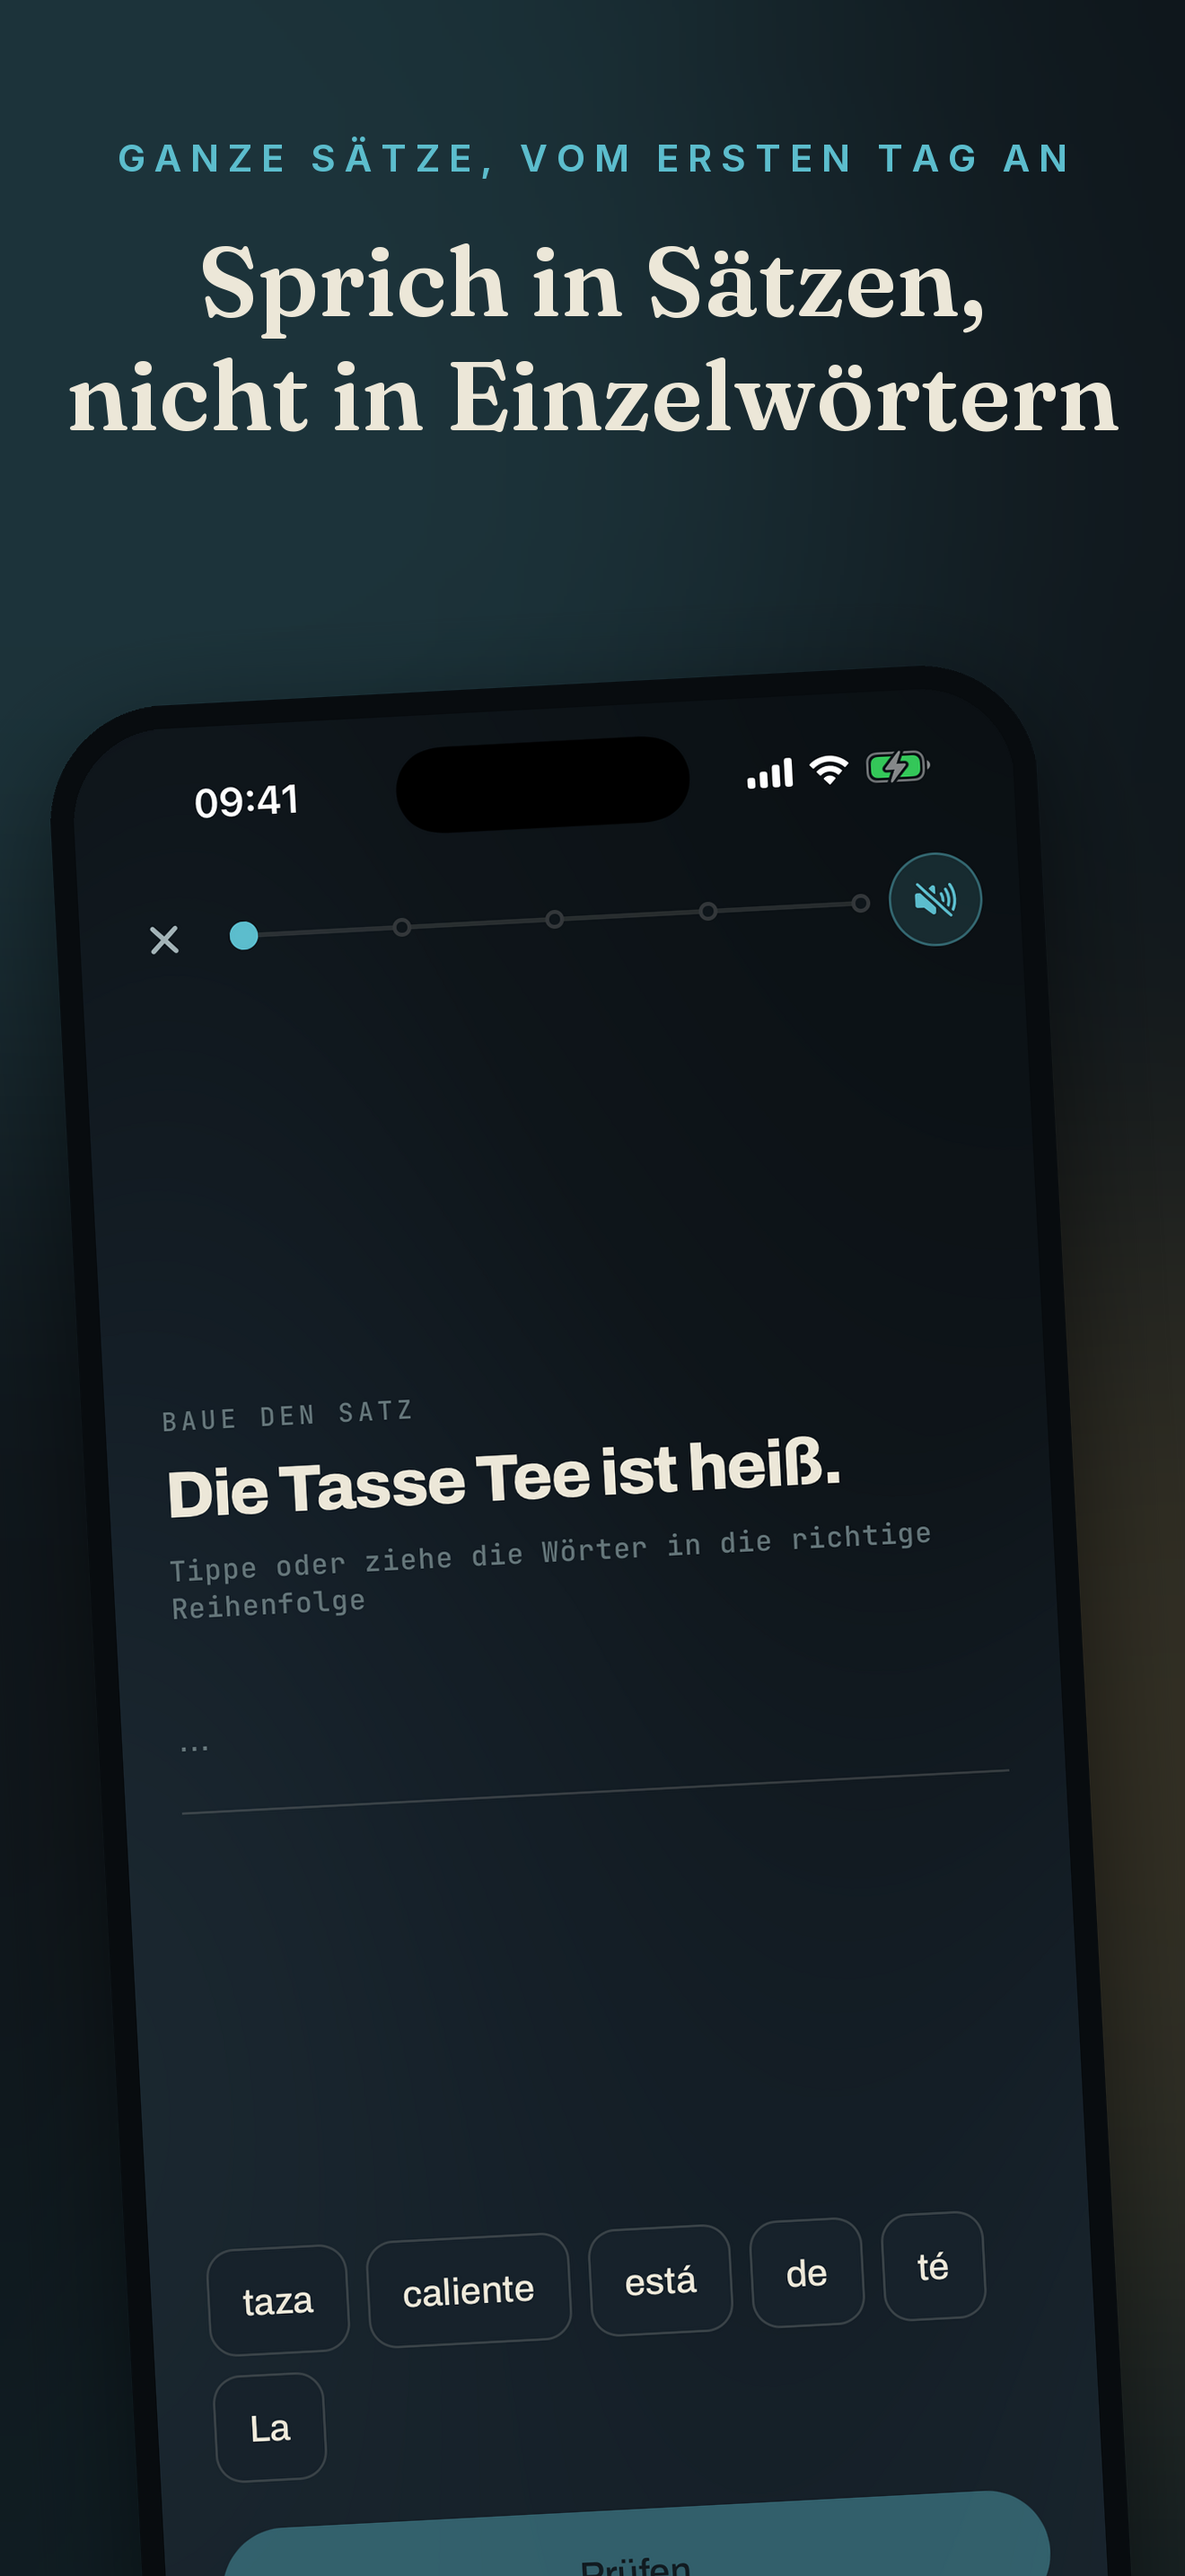
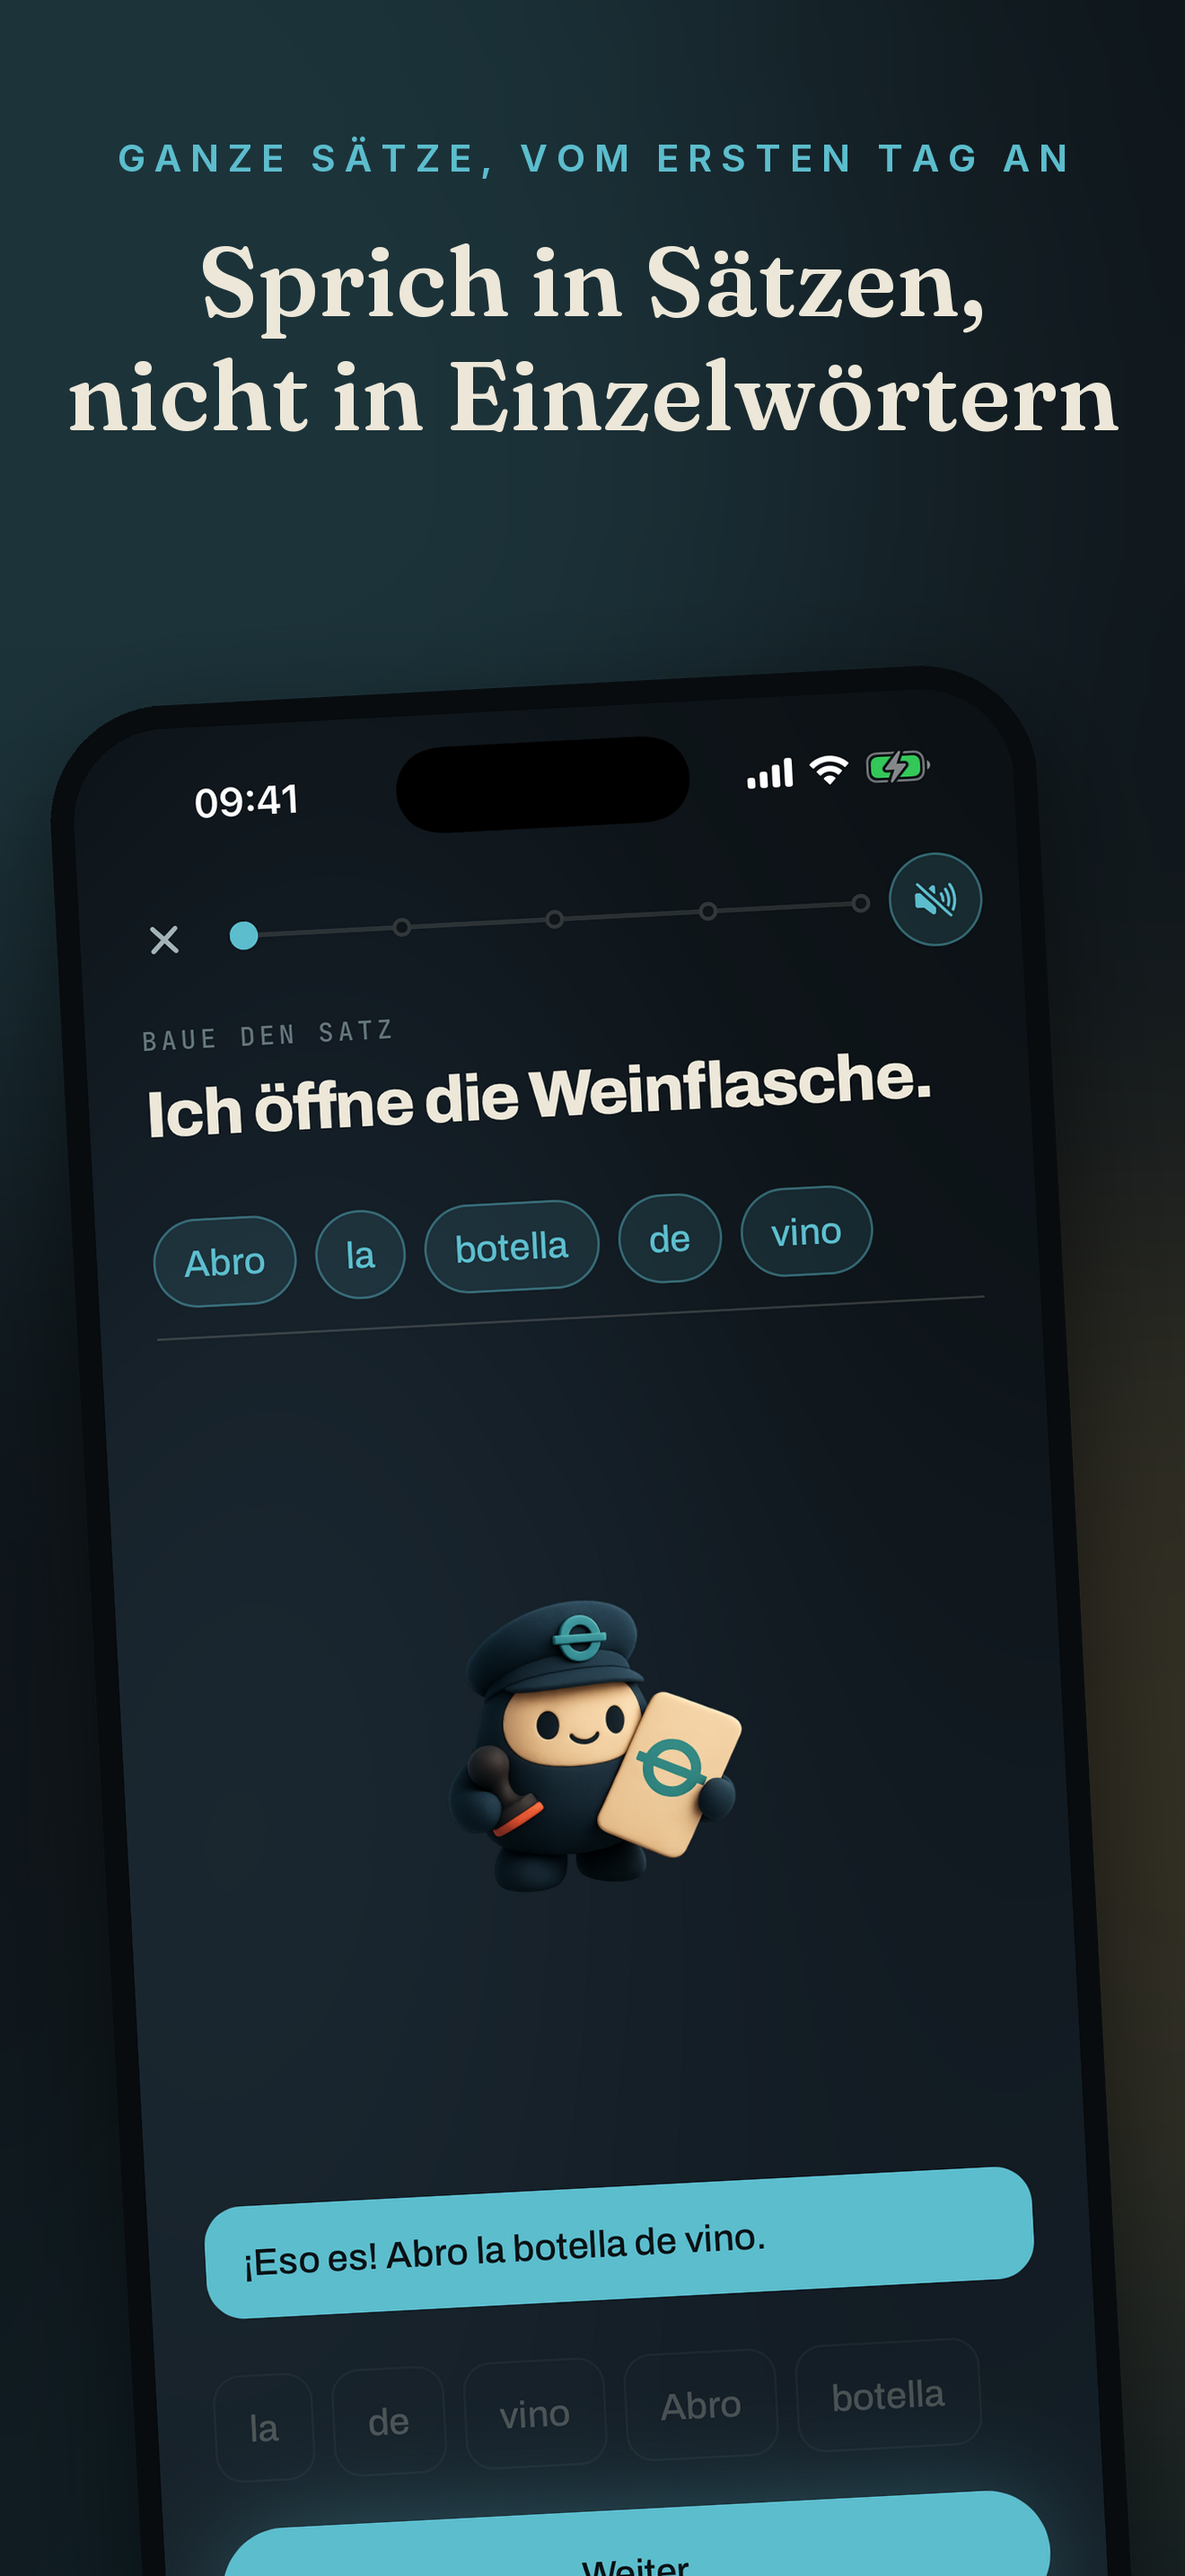
store shots: the practice shot is the finished sentence, Tolly happy
03_practice (en) and 05_practice (de/es/fr/it/pt) now frame the order_done
captures: sentence built, checked, green banner. Captions unchanged. iPad keeps
the mid-build capture (no finished-sentence iPad raws). The Apple Ads custom
product page's L2_course inherits it and is re-rendered.

Claude-Session: https://claude.ai/code/session_014rwoTGCPrfmVeQYZvtxw53

diff --git a/langtoll-mobile/marketing/appstore/store_shots.py b/langtoll-mobile/marketing/appstore/store_shots.py
@@ -279,7 +279,9 @@ SHOTS = [
     {
         # The fare: a rep is BUILDING a real sentence from word tiles — not matching\n        # a word to its translation. The caption must never promise more than the\n        # screen proves (an early cut said "order dinner" over a "the coffee" drill).
         "name": "03_practice",
-        "raw": "raw_practice_es.png",
+        # The sentence FINISHED and checked: green banner, Tolly happy (founder
+        # call 2026-09-22). Capture kind order_done in capture/cap.py.
+        "raw": "raw_practice_done.png",
         "kicker": "whole sentences, from day one",
         "headline": "Speak in sentences,\nnot in single words",
         "aurora": [(TEAL, 0.2, 0.18, 0.55), (AMBER, 0.9, 0.7, 0.5), (TEAL_DEEP, 0.5, 1.0, 0.45)],
@@ -579,13 +581,14 @@ CAPTIONS = {
 # swapped for English.
 LOCALE_RAW = {
     "01_hero": "home.png",
-    "03_practice": "practice.png",
+    "03_practice": "practice_done.png",
     "04_pass": "pass.png",
     "05_wallet": "wallet.png",
     "06_hook": "hook.png",
     "06_plus_alternate": None,  # paywall stays English-only; never in the sheet
 }
-LOCALE_RAW_IPAD = {**LOCALE_RAW, "04_pass": "home_active.png"}
+# iPad keeps the mid-build capture: the finished-sentence raws are iPhone only.
+LOCALE_RAW_IPAD = {**LOCALE_RAW, "03_practice": "practice.png", "04_pass": "home_active.png"}
 # Upload order of the localized listings (founder call 2026-09-19): hero, watch,
 # wallet, hook, practice, pass. Files are numbered to match, because App Store
 # Connect keeps whatever order the files arrive in.
